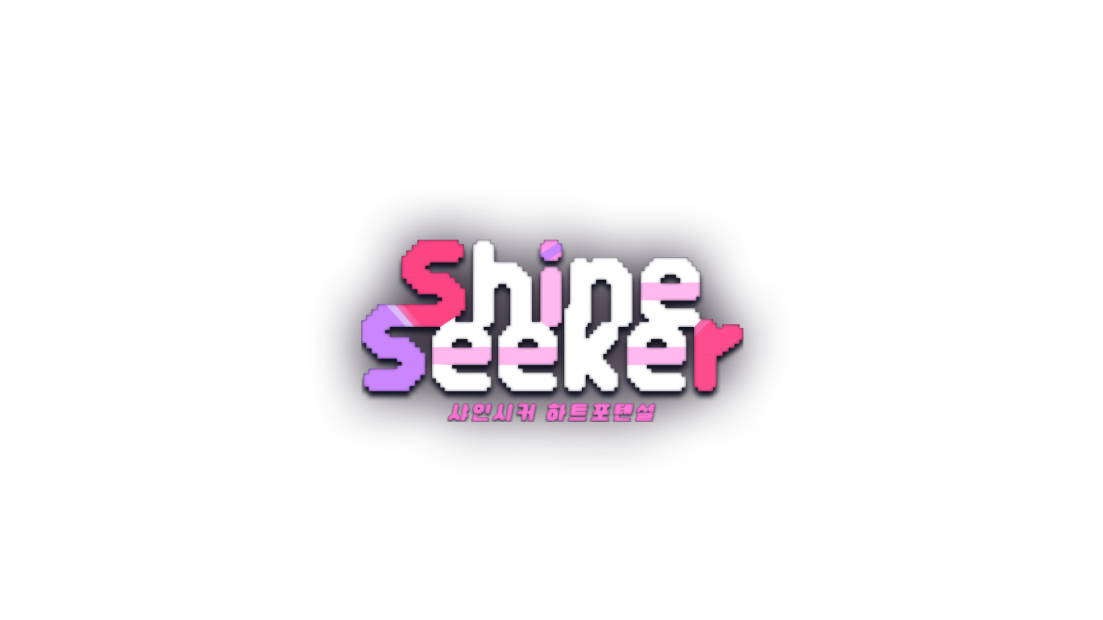
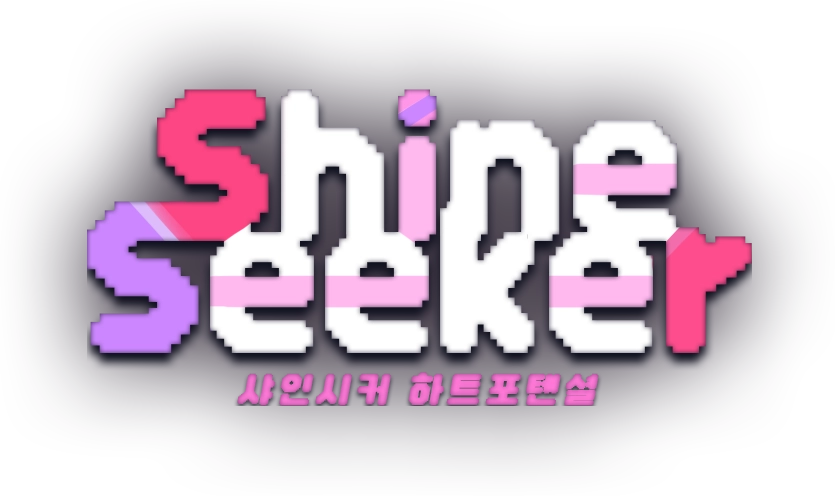
로고수정

diff --git a/web_shineseeker/app/(main)/main/page.js b/web_shineseeker/app/(main)/main/page.js
@@ -8,60 +8,62 @@ import MainAudioPlayer from "./MainAudioPlayer";
 
 const menuName = "main";
 export default function Home() {
-  const [maindata, setMainData] = useState([]);
-  const [user, setUser] = useState({});
-  let fetchIndex = 0;
-  // 데이터를 주기적으로 가져오기 위한 함수
-  async function fetchData() {
-    let response = await fetch(`/api/select?apitype=page&getcount=1&pagename=${menuName}&getcount=1`);
-    console.log("야 메인 땡긴다?", response);
-    // if (fetchIndex++ == 0) response = await fetch(`/api/select?apitype=${menuName}&getcount=1`);
-    // else response = await fetch(`/api/select?apitype=${menuName}`);
-    const newData = await response.json();
-    if (newData?.data?.length) {
-      console.log(`admin *** ${menuName} *** page data 갱신되었습니다(${fetchIndex}): `, newData);
-      setMainData([...newData.data]);
+    const [maindata, setMainData] = useState([]);
+    const [user, setUser] = useState({});
+    let fetchIndex = 0;
+    // 데이터를 주기적으로 가져오기 위한 함수
+    async function fetchData() {
+        let response = await fetch(`/api/select?apitype=page&getcount=1&pagename=${menuName}&getcount=1`);
+        console.log("야 메인 땡긴다?", response);
+        // if (fetchIndex++ == 0) response = await fetch(`/api/select?apitype=${menuName}&getcount=1`);
+        // else response = await fetch(`/api/select?apitype=${menuName}`);
+        const newData = await response.json();
+        if (newData?.data?.length) {
+            console.log(`admin *** ${menuName} *** page data 갱신되었습니다(${fetchIndex}): `, newData);
+            setMainData([...newData.data]);
+        }
     }
-  }
-  // 최초 데이터 빠르게 가져오기 위한 useEffect
-  useEffect(() => {
-    fetchData();
-    // const intervalId = setInterval(fetchData, 10 * 1000);
-    // return () => clearInterval(intervalId); // 컴포넌트가 언마운트될 때 clearInterval로 인터벌 해제
-  }, []);
-  return (
-    <>
-      <div className="relative grid grid-cols-6" style={{height: "400px"}}>
-        <div className="relative login col-span-2 max-h-full mr-4" style={{height: "440px", top: "-30px"}}>
-          <div className="relative img-login-bg flex flex-col items-center h-full">
-            {/* 로고 */}
-            <div className="text-white w-full py-4 px-28 " style={{height: "300px"}}>
-              {/* <div className="relative w-full h-3/4 top-10"> <Image src="/images/home/01_butterfly.webp" alt="login logo" fill={true} /> </div> */}
+    // 최초 데이터 빠르게 가져오기 위한 useEffect
+    useEffect(() => {
+        fetchData();
+        // const intervalId = setInterval(fetchData, 10 * 1000);
+        // return () => clearInterval(intervalId); // 컴포넌트가 언마운트될 때 clearInterval로 인터벌 해제
+    }, []);
+
+    useEffect(() => {}, []);
+    return (
+        <>
+            <div className="relative grid grid-cols-6" style={{height: "400px"}}>
+                <div className="relative login col-span-2 max-h-full mr-4" style={{height: "440px", top: "-30px"}}>
+                    <div className="relative img-login-bg flex flex-col items-center h-full">
+                        {/* 로고 */}
+                        <div className="text-white w-full py-4 px-28 " style={{height: "300px"}}>
+                            {/* <div className="relative w-full h-3/4 top-10"> <Image src="/images/home/01_butterfly.webp" alt="login logo" fill={true} /> </div> */}
+                        </div>
+                        {/* 로그인 폼 */}
+                        <MainLoginForm />
+                    </div>
+                </div>
+                <div className="col-span-4 max-h-full" style={{height: "inherit"}}>
+                    <MainSlide />
+                </div>
             </div>
-            {/* 로그인 폼 */}
-            <MainLoginForm />
-          </div>
-        </div>
-        <div className="col-span-4 max-h-full" style={{height: "inherit"}}>
-          <MainSlide />
-        </div>
-      </div>
-      <div className="grid grid-cols-6  w-full mt-8" style={{height: "400px"}}>
-        <div className="col-span-2 mr-4 px-2">
-          <MainAudioPlayer />
-        </div>
-        <div className="col-span-4 grid grid-cols-3 gap-x-3">
-          <Link className="col-span-1 relative main-button" href="/main">
-            <Image src="/images/home/01_home_button01.png" alt="Shineseeker" fill={true} />
-          </Link>
-          <Link className="col-span-1 relative main-button" href="/main">
-            <Image src="/images/home/01_home_button02.png" alt="Shineseeker" fill={true} />
-          </Link>
-          <Link className="col-span-1 relative main-button" href="/main">
-            <Image src="/images/home/01_home_button03.png" alt="Shineseeker" fill={true} />
-          </Link>
-        </div>
-      </div>
-    </>
-  );
+            <div className="grid grid-cols-6  w-full mt-8" style={{height: "400px"}}>
+                <div className="col-span-2 mr-4 px-2">
+                    <MainAudioPlayer />
+                </div>
+                <div className="col-span-4 grid grid-cols-3 gap-x-3">
+                    <Link className="col-span-1 relative main-button" href="/main">
+                        <Image src="/images/home/01_home_button01.png" alt="Shineseeker" fill={true} />
+                    </Link>
+                    <Link className="col-span-1 relative main-button" href="/main">
+                        <Image src="/images/home/01_home_button02.png" alt="Shineseeker" fill={true} />
+                    </Link>
+                    <Link className="col-span-1 relative main-button" href="/main">
+                        <Image src="/images/home/01_home_button03.png" alt="Shineseeker" fill={true} />
+                    </Link>
+                </div>
+            </div>
+        </>
+    );
 }

diff --git a/web_shineseeker/app/page.js b/web_shineseeker/app/page.js
@@ -13,7 +13,7 @@ export default function Home() {
       <Link href="/main" className="max-w-full flex justify-center items-center">
         <div className="relative init-title">
           <Image src={imgTitleCircle1} alt={"로고 회전1"} className="absolute z-50 rotating-right-10 title-circle-1" style={{width: "12vw"}} />
-          <Image src={imgTitle} alt={"로고"} className="absolute top-[-180px] left-[-275px] z-50 max-w-fit" width={1103} height={620} />
+          <Image src={imgTitle} alt={"로고"} className="absolute top-[10px] left-[75px] z-50 max-w-fit" width={550} height={496} />
         </div>
         <Image src={imgTitleCircle2} alt={"로고 회전2"} className="fixed z-30 rotating-right-20" style={{width: "23vw"}} />
         <Image src={imgTitleCircle3} alt={"로고 회전3"} className="fixed z-20 rotating-left-10" style={{width: "25vw"}} />
